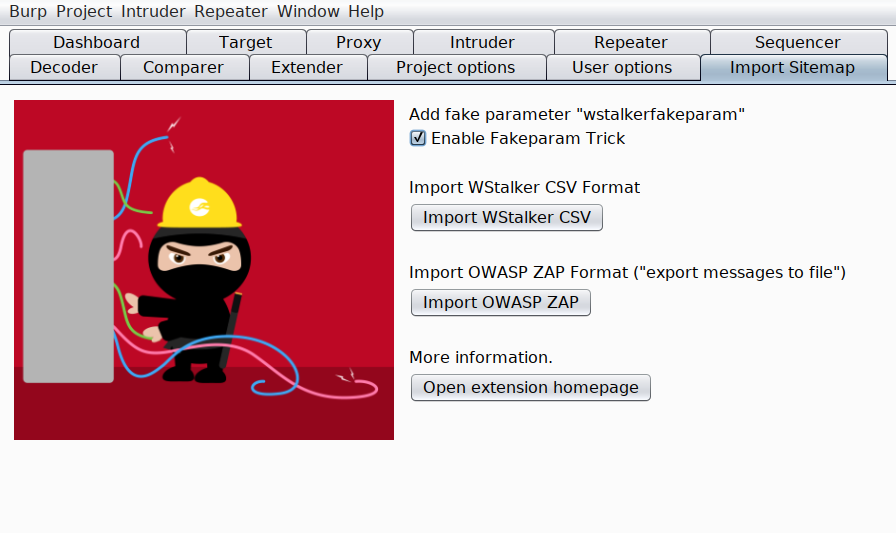
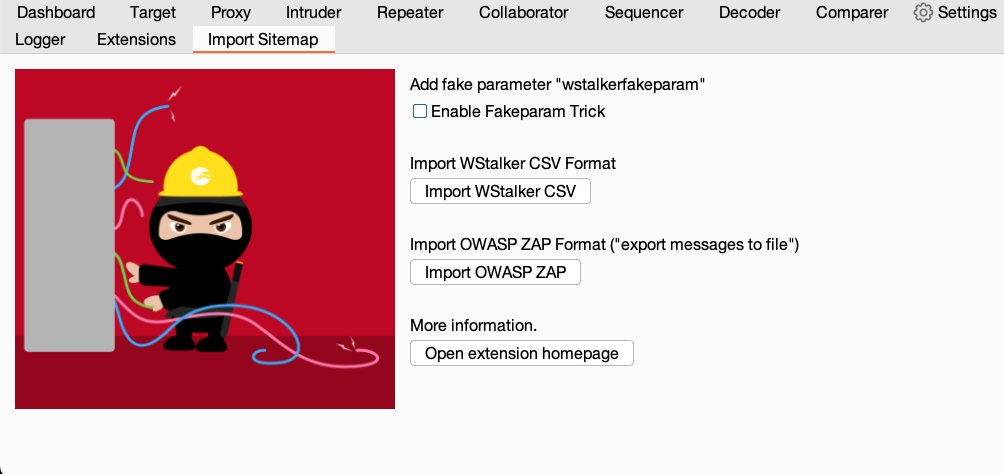
Updated documentation

Changed region(s): [[0.0, 0.0, 1.0, 0.8861]]

diff --git a/README.md b/README.md
@@ -22,14 +22,12 @@ Once the extension has been loaded into Burp, an additional tab called "Import S
 
 ![Load CSV](img/load.png "Logo Title Text 1")
 
-In addition, there is a checkbox called "Enable Fakeparam Trick", which is enabled by default. When enabled, a new artificial parameter "wstalkerfakeparam" is added to each request. The reason to do this is because sitemap does not add several requests with the same URL, so adding a fake parameter with random value will guarantee that every request/response is sucessfully imported.
-
-![Fakeparam](img/fakeparam.png "Logo Title Text 1")
+There is a checkbox called "Enable Fakeparam Trick", which is disabled by default and it is considered a legacy option. More information about this legacy option [here](FakeParamTrick.md).
 
 When selecting the CSV file, all the requests and responses are loaded into the SiteMap. From there we can inspect and export them into Repeater, Intruder, etc.
 
 ![Send To](img/repeater.png "Logo Title Text 1")
 
-The extension also includes two contextual menus that allow to import requests/responses from any other tool. The "no fakeparam" one will import as we had disabled the checkbox described above.
+The extension also includes two contextual menus that allow to import requests/responses from any other tool. The "fakeparam" one will import as we had enabled the checkbox described [above](FakeParamTrick.md). This second option will probable be removed in further updated.
 
 ![Load CSV](img/sitemap.png "Logo Title Text 1")

diff --git a/FakeParamTrick.md b/FakeParamTrick.md
@@ -1,0 +1,7 @@
+## Enable Fakeparam Trick 
+
+![Load CSV](img/load.png "Logo Title Text 1")
+
+There is a checkbox called "Enable Fakeparam Trick", which is disabled by default. When enabled, a new artificial parameter "wstalkerfakeparam" is added to each request. The reason to do this is because some time ago sitemap did not add several requests with the same URL, so adding a fake parameter with random value guaranteed that every request/response is sucessfully imported. This is no longer necessary in modern Burp versions, but it is kept just in case the extension is loaded in an old version.
+
+![Fakeparam](img/fakeparam.png "Logo Title Text 1")

diff --git a/ZAP.md b/ZAP.md
@@ -12,13 +12,13 @@ The following steps are needed:
 The resulting file should have the following format:
 
 ```
-==== 1 ==========
+===1 ==========
 GET https://whatever.com/foo/ HTTP/1.1
 [REQUEST]
 
 
 [RESPONSE]
-==== 2 ==========
+===2 ==========
 [...]
 ```
 
